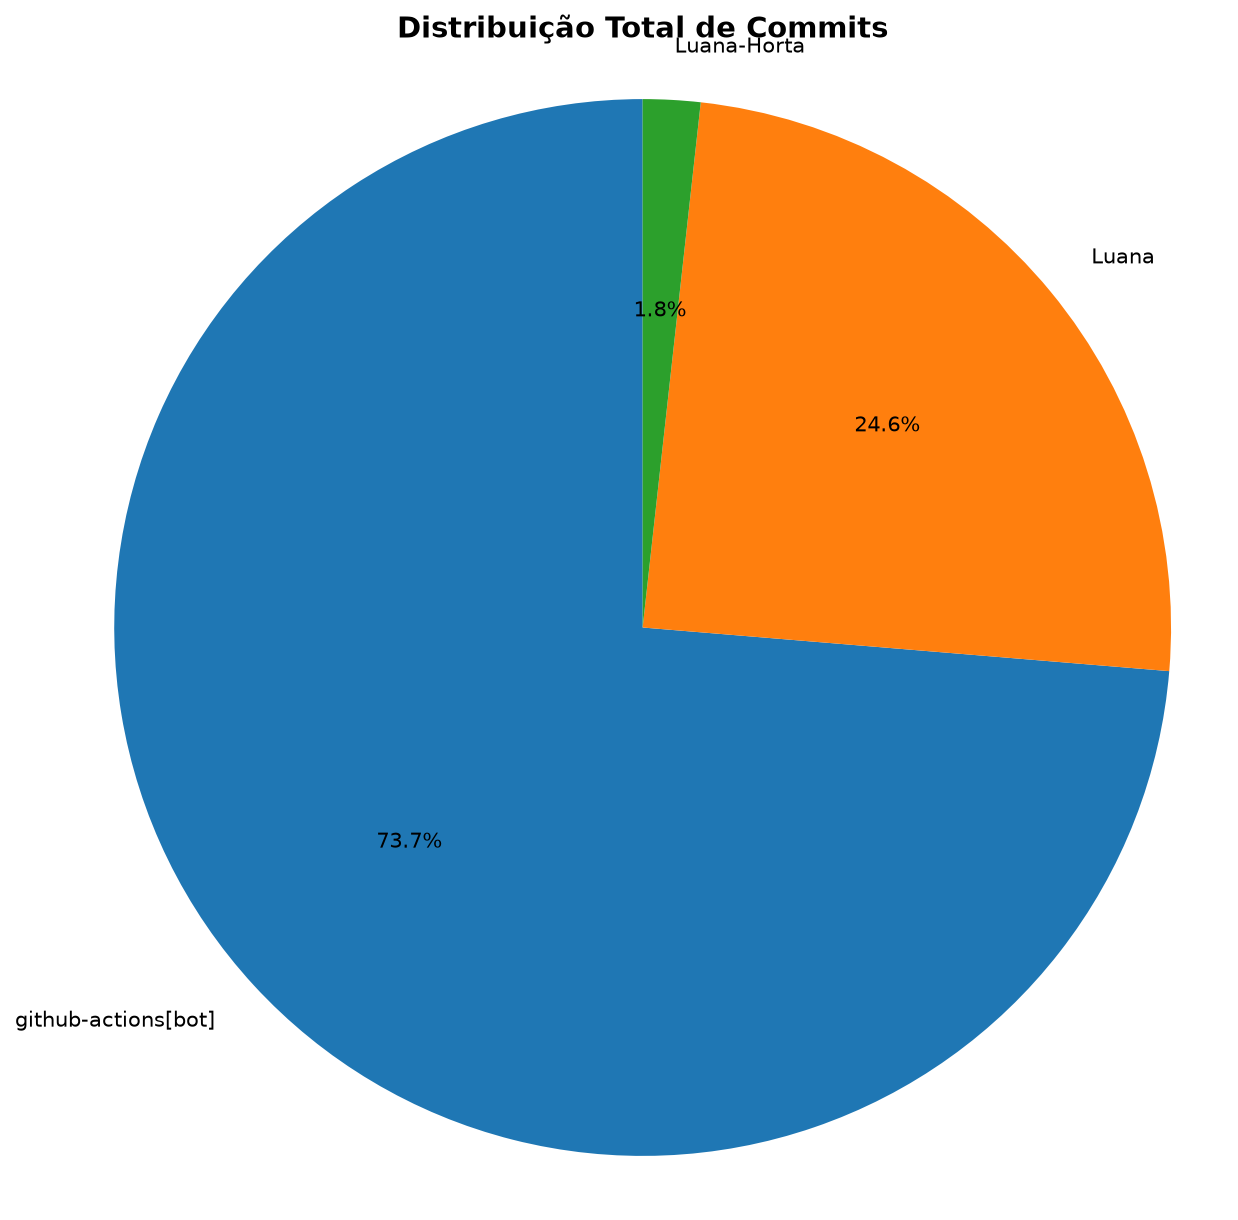
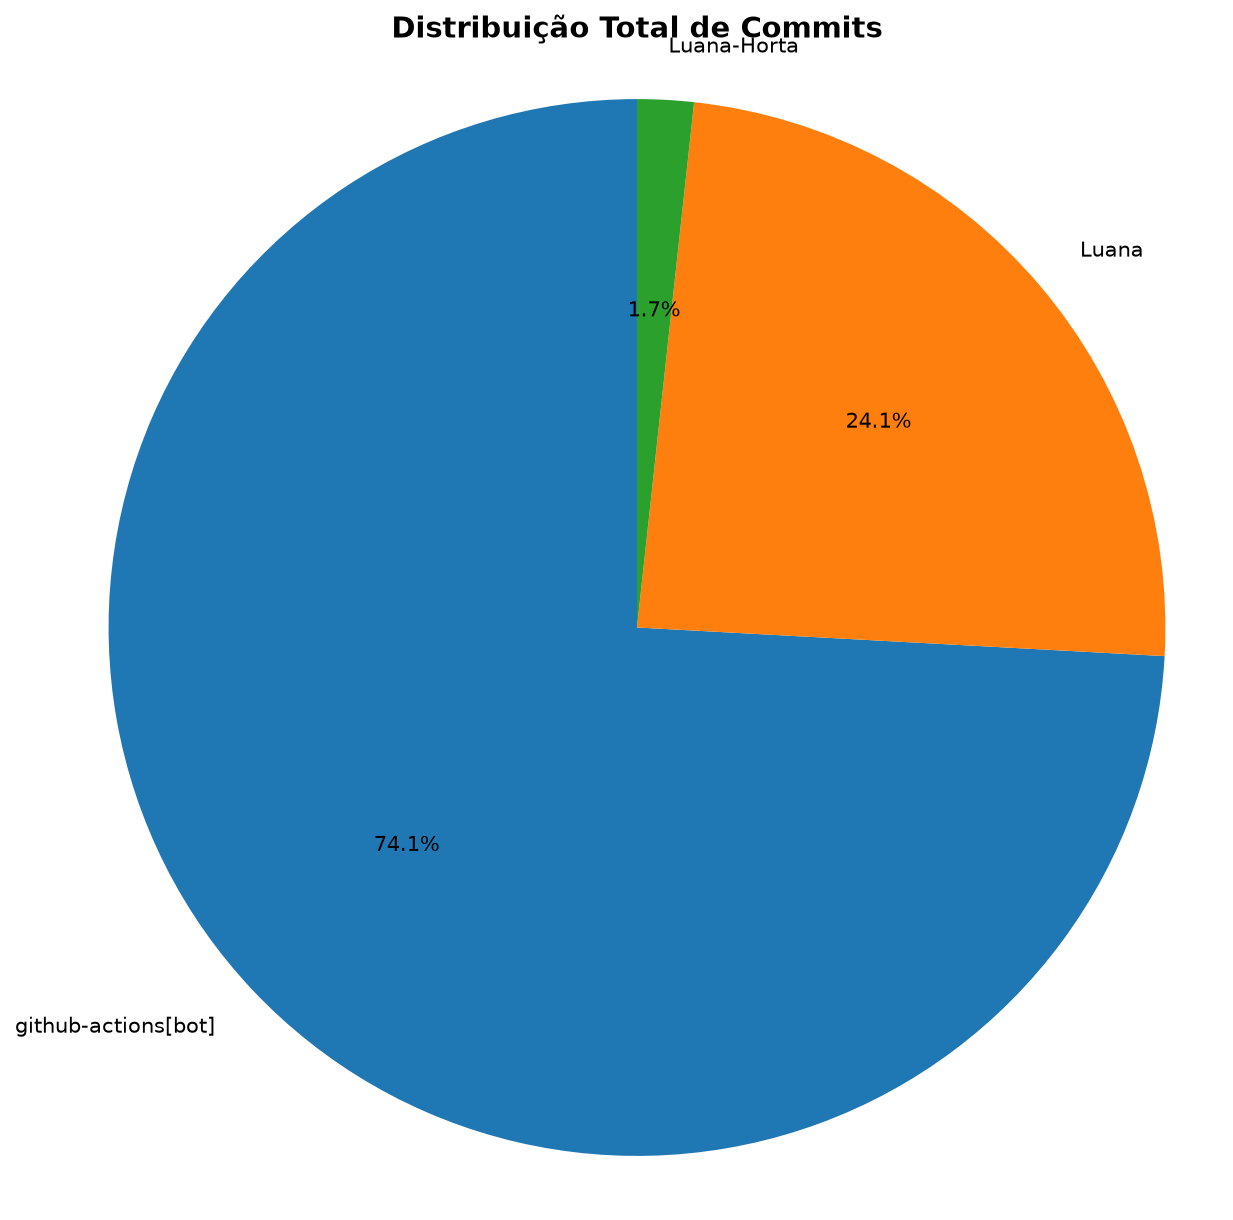
📊 Atualizar relatório de contribuições [skip ci]

diff --git a/docs/CONTRIBUTION_REPORT.md b/docs/CONTRIBUTION_REPORT.md
@@ -1,6 +1,6 @@
 # 📊 Relatório de Contribuições do Projeto
 
-**Última atualização:** 09/11/2026 03:31
+**Última atualização:** 23/11/2026 04:35
 
 ---
 
@@ -10,10 +10,12 @@
 |---------------------|-----------|-----------|-----------|------------|----------------|-----------------|
 | Luana               |        14 |     10988 |      1528 |        307 |              2 |               0 |
 | Luana-Horta         |         1 |      2152 |         0 |         45 |              1 |              13 |
-| github-actions[bot] |        42 |       237 |       206 |          3 |             42 |               1 |
+| github-actions[bot] |        43 |       241 |       210 |          3 |             43 |               1 |
 
 
 ## 📅 Contribuições Semanais (Todo o Semestre)
+
+**2026-11-02**: github-actions[bot]: 1
 
 **2026-10-26**: github-actions[bot]: 1
 
@@ -56,10 +58,6 @@
 **2026-06-15**: github-actions[bot]: 1
 
 **2026-06-08**: github-actions[bot]: 1
-
-**2026-06-01**: github-actions[bot]: 1
-
-**2026-05-25**: github-actions[bot]: 1
 
 
 
